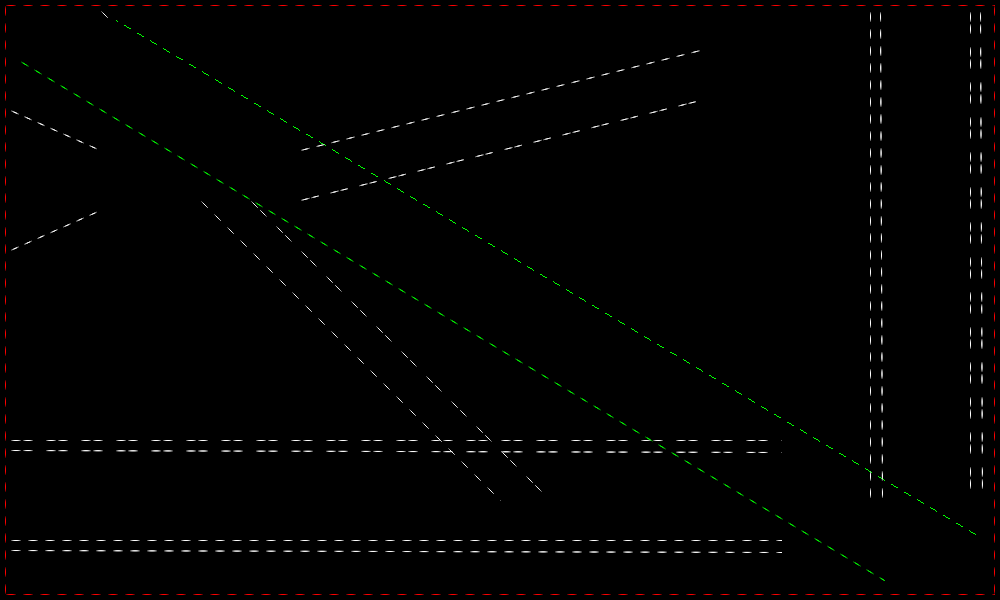
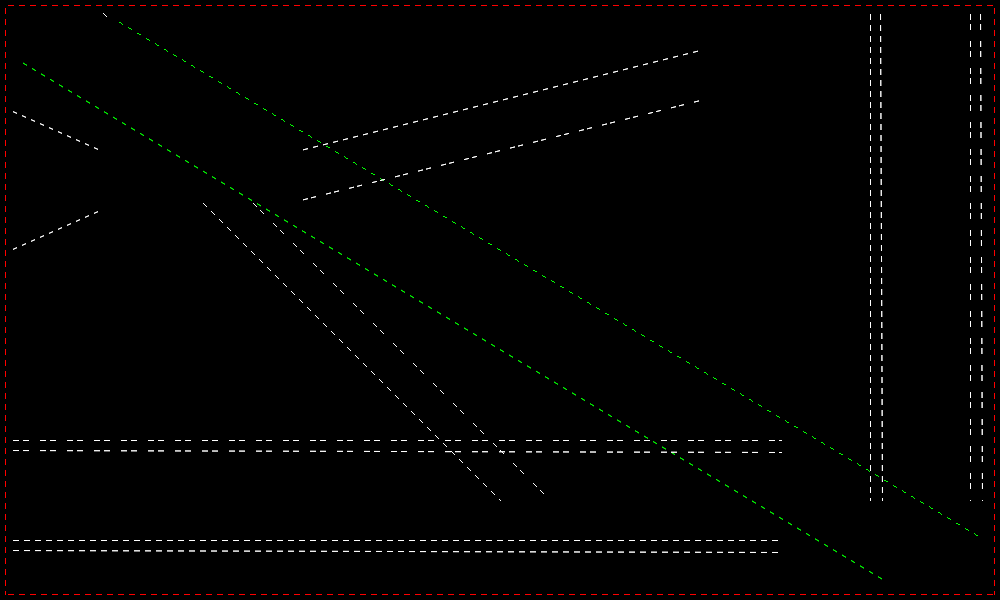
Working on patterned line

diff --git a/src/Pt-Gfx/Rasterizer2.cpp b/src/Pt-Gfx/Rasterizer2.cpp
@@ -225,37 +225,86 @@ void Rasterizer2::updateGradientBrushAsNeeded(Pt::int32_t width, Pt::int32_t hei
 
 void Rasterizer2::updatePenPattern()
 {
+    // Predefined patterns
+    static const Pt::uint8_t patternDot       [] = { 0, 1, 0, 0                };
+    static const Pt::uint8_t patternDoubleDot [] = { 0, 1, 0, 0, 1, 0, 0, 0, 0 };
+    static const Pt::uint8_t patternDash      [] = { 0, 1, 1, 1, 0, 0                         };
+    static const Pt::uint8_t patternDoubleDash[] = { 0, 1, 1, 1, 0, 0, 1, 1, 1, 0, 0, 0, 0, 0 };
+    static const Pt::uint8_t patternDotDash   [] = { 0, 1, 0, 0, 1, 1, 1, 0, 0 };
+
+    // Select the pattern
+    const Pt::uint8_t* patternSel;
+          Pt::uint8_t  patternLen;
+
+    switch(_pen.style()) {
+        default:
+        case Pen::Dot:
+            patternSel =        patternDot;
+            patternLen = sizeof(patternDot);
+            break;
+
+        case Pen::DoubleDot:
+            patternSel =        patternDoubleDot;
+            patternLen = sizeof(patternDoubleDot);
+            break;
+
+        case Pen::Dash:
+            patternSel =        patternDash;
+            patternLen = sizeof(patternDash);
+            break;
+
+        case Pen::DoubleDash:
+            patternSel =        patternDoubleDash;
+            patternLen = sizeof(patternDoubleDash);
+            break;
+
+        case Pen::DotDash:
+            patternSel =        patternDotDash;
+            patternLen = sizeof(patternDotDash);
+            break;
+    }
+
     // Counter for generating the pattern
     Pt::int32_t gctr = 0;
 
     // Generate the pattern
-    switch(_pen.style()) {
-        default:
-        case Pen::Dash: {
-            const Pt::int32_t max = 5;
-            for(Pt::int32_t i = 0; i <= max; ++i) _patternBuffer[gctr++] = XWAA_WFILTER[255 - i * 255 / max];
-            for(Pt::int32_t i = 0; i <= max; ++i) _patternBuffer[gctr++] = XWAA_WFILTER[      i * 255 / max];
-            for(Pt::int32_t i = 0; i <= max; ++i) _patternBuffer[gctr++] = 0;
-            break;
+    Pt::uint8_t previous = 0;
+    for(Pt::int8_t i = 0; i < patternLen; ++i) {
+        // Get the pattern cell value
+        const Pt::uint8_t current = patternSel[i];
+        const Pt::uint8_t max     = 1;
+        // 1 1
+        if(previous && current) {
+            for(Pt::uint8_t i = 0; i <= max; ++i) _patternBuffer[gctr++] = 255;
         }
-
-        case Pen::DoubleDash: {
-            const Pt::int32_t max = 5;
-            for(Pt::int32_t i = 0; i <= max; ++i) _patternBuffer[gctr++] = XWAA_WFILTER[255 - i * 255 / max];
-            for(Pt::int32_t i = 0; i <= max; ++i) _patternBuffer[gctr++] = XWAA_WFILTER[      i * 255 / max];
-            for(Pt::int32_t i = 0; i <= max; ++i) _patternBuffer[gctr++] = XWAA_WFILTER[255 - i * 255 / max];
-            for(Pt::int32_t i = 0; i <= max; ++i) _patternBuffer[gctr++] = XWAA_WFILTER[      i * 255 / max];
-            for(Pt::int32_t i = 0; i <= max; ++i) _patternBuffer[gctr++] = 0;
-            for(Pt::int32_t i = 0; i <= max; ++i) _patternBuffer[gctr++] = 0;
-            break;
+        // 0 1
+        else if(!previous && current) {
+            for(Pt::int32_t i = 0; i <= max; ++i) _patternBuffer[gctr++] = i * 255 / max;
         }
+        // 1 0
+        else if(previous && !current) {
+            for(Pt::int32_t i = 0; i <= max; ++i) _patternBuffer[gctr++] = 255 - i * 255 / max;
+        }
+        // 0 0
+        else if(!previous && !current) {
+            for(Pt::uint8_t i = 0; i <= max; ++i) _patternBuffer[gctr++] = 0;
+        }
+        // Copy the pattern cell value
+        previous = current;
     }
 
-    // If without anti-aliasing, convert the pattern to "black and white"
+    // Without anti-aliasing
     if(_aaMode == AntiAliasingMode::None) {
         for(Pt::int32_t i = 0; i < gctr; ++i) {
             if(_patternBuffer[i] > 127) _patternBuffer[i] = 255;
-            else _patternBuffer[i] = 0;
+            else                        _patternBuffer[i] = 0;
+        }
+    }
+
+    // With anti-aliasing
+    else {
+        for(Pt::int32_t i = 0; i < gctr; ++i) {
+            _patternBuffer[i] = XWAA_WFILTER[ 255 - _patternBuffer[i] ];
         }
     }
 

diff --git a/src/Pt-Gfx/Rasterizer2_PatternedLine.cpp b/src/Pt-Gfx/Rasterizer2_PatternedLine.cpp
@@ -91,7 +91,7 @@ void Rasterizer2::rasterOnePixelPatternedGLineSegmentNoAA(Pt::int32_t x1, Pt::in
         fpiCtrInOut += fpiCtrInc;
         if(fpiCtrInOut > _fpatternMaxCtr) fpiCtrInOut = 0;
         // Check if we should skip drawing the pixel
-        bool skipDrawing = !!patAlpha;
+        bool skipDrawing = !patAlpha;
         for(Pt::int32_t i = 0; !skipDrawing && i < 4; ++i) {
             if(x != mx[i] || y != my[i]) continue;
             skipDrawing = true;

diff --git a/include/Pt/Gfx/Pen.h b/include/Pt/Gfx/Pen.h
@@ -55,8 +55,11 @@ class PT_GFX_API Pen
         /** @brief Pen line style.
         */
         enum Style { Solid      = 0,
-                     Dash       = 1,
-                     DoubleDash = 2
+                     Dot        = 1,
+                     DoubleDot  = 2,
+                     Dash       = 3,
+                     DoubleDash = 4,
+                     DotDash    = 5
                    };
 
         /** @brief Pen cap style.
